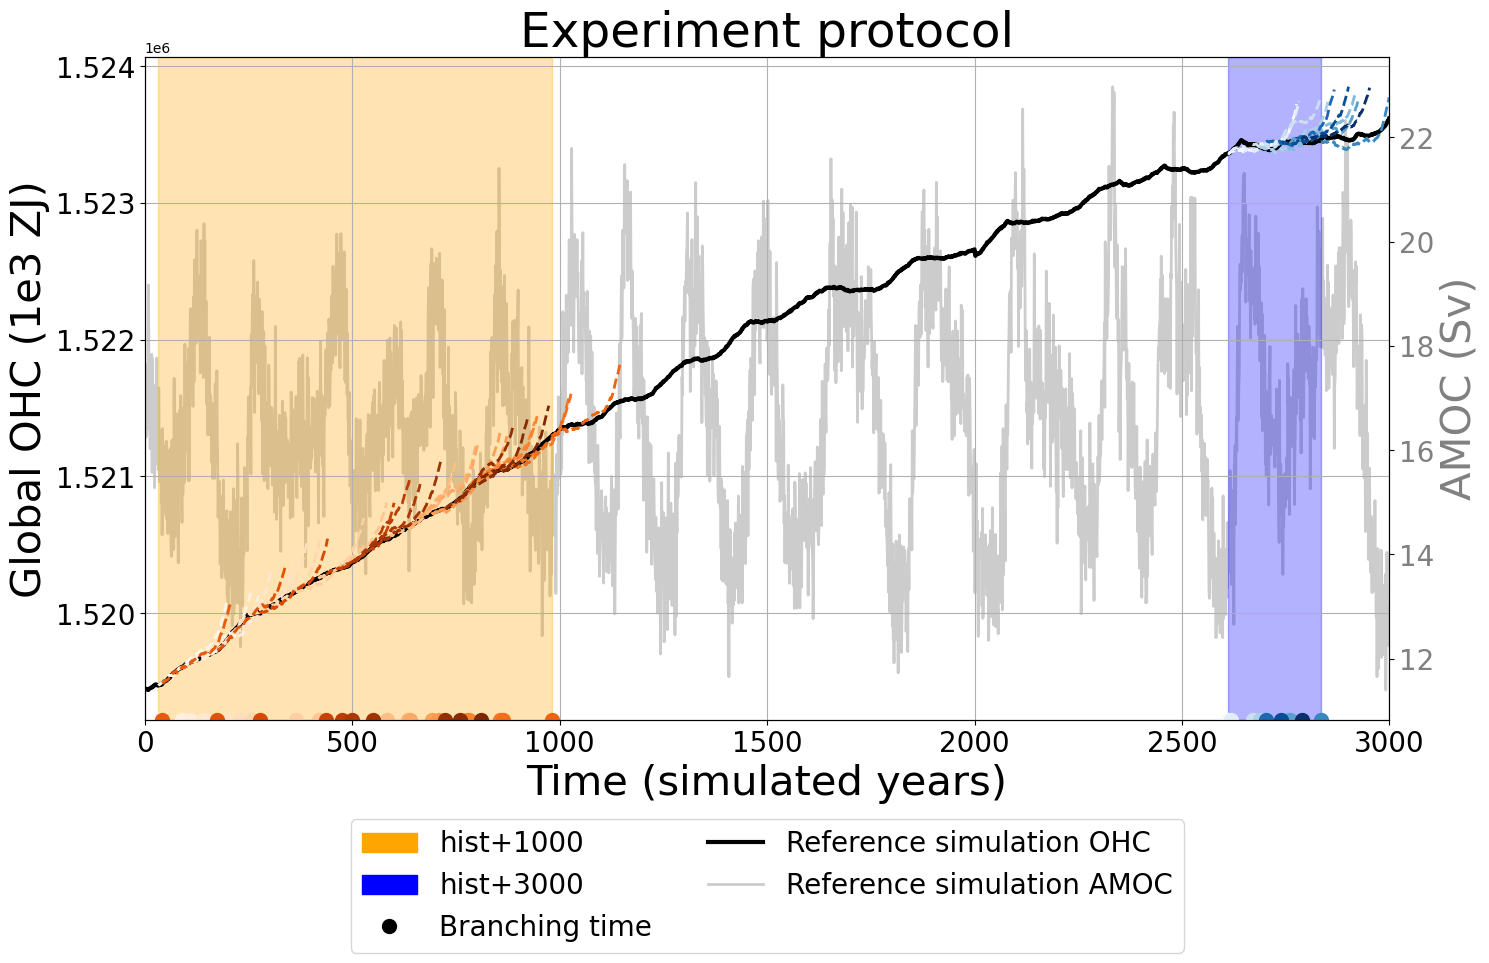
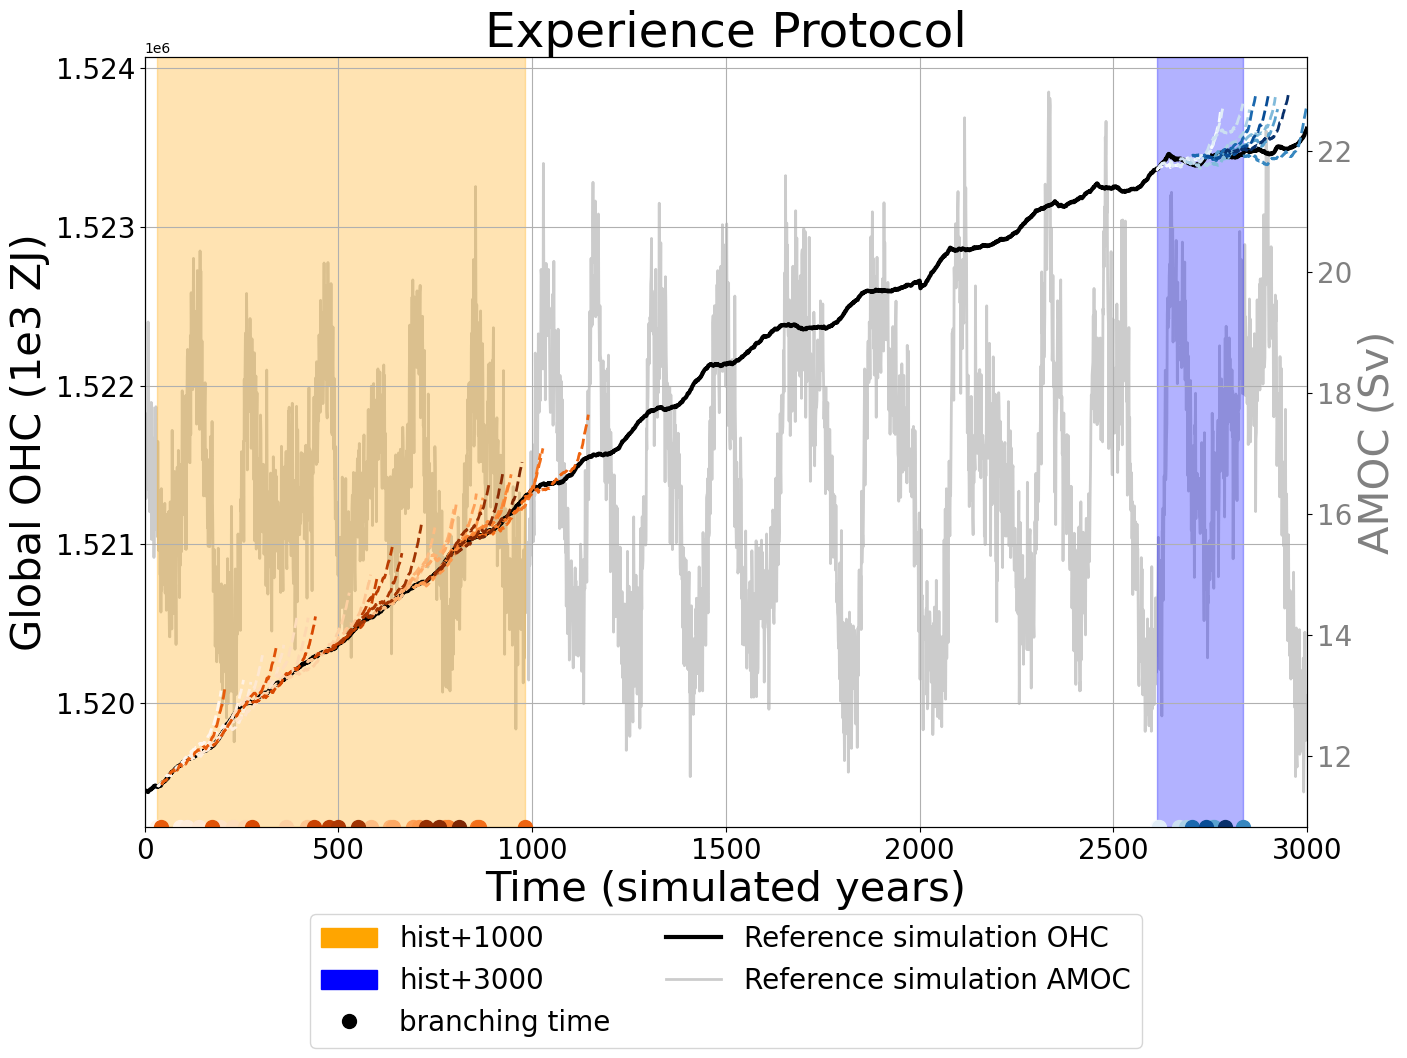
fin

diff --git a/scripts/figure_1.py b/scripts/figure_1.py
@@ -17,7 +17,7 @@ import matplotlib.pyplot as plt
 from matplotlib.cm import get_cmap
 from matplotlib.lines import Line2D
 from matplotlib.patches import Patch
-
+import xarray as xr
 
 # -----------------------------------------------------------------------------
 # Make the project root importable
@@ -30,16 +30,14 @@ sys.path.append(str(PROJECT_ROOT))
 # -----------------------------------------------------------------------------
 FIG_DIR = PROJECT_ROOT / "figures"
 FIG_DIR.mkdir(exist_ok=True)
-
+INTERMEDIATE_DIR = PROJECT_ROOT / "data/data_plot"
 # -----------------------------------------------------------------------------
 # Imports from project utilities
 # -----------------------------------------------------------------------------
 from functions.utils import (
-    load_pic_ohc_1D,
-    load_pic_amoc,
-    load_integrated_ohc,
     load_branching_years,
 )
+
 
 # -----------------------------------------------------------------------------
 # Physical constants
@@ -60,188 +58,88 @@ YINI_3000 = 4462 - 1850
 YEND_3000 = 4685 - 1850
 
 
-def main():
-    """Generate the experiment protocol figure."""
+amoc_pic_gb = xr.open_dataset(INTERMEDIATE_DIR / "amoc_pic_gb.nc").msftyz
+ohc_pic_gb = xr.open_dataset(INTERMEDIATE_DIR / "ohc_pic_gb.nc").thetao
 
-    # -------------------------------------------------------------------------
-    # Load data
-    # -------------------------------------------------------------------------
+ohc_hist_1000 = xr.open_dataset(INTERMEDIATE_DIR / "ohc_hist_1000.nc").__xarray_dataarray_variable__
+ohc_hist_3000 = xr.open_dataset(INTERMEDIATE_DIR / "ohc_hist_3000.nc").__xarray_dataarray_variable__
+ohc_pic_1000 = xr.open_dataset(INTERMEDIATE_DIR / "ohc_pic_1000.nc").__xarray_dataarray_variable__
+ohc_pic_3000 = xr.open_dataset(INTERMEDIATE_DIR / "ohc_pic_3000.nc").__xarray_dataarray_variable__
 
-    ohc_pic = load_pic_ohc_1D()/ECHELLE_OHC
-    
-    amoc_pic = load_pic_amoc()
 
-    ohc_hist_1000 = load_integrated_ohc("hist_tot", "0_btm")
+starty_tot, starty_3000 = load_branching_years()
+time = np.linspace(0,2999,3000)
+time_hist = np.linspace(0,164,165)
 
-    ohc_hist_3000 = load_integrated_ohc("hist_3000", "0_btm")
+# -----------------------------------------------------------------------------
+# PLOT
+# -----------------------------------------------------------------------------
+data = ohc_pic_gb
+data_tas = amoc_pic_gb
+cmap2 = get_cmap('Oranges')
+cmap1 = get_cmap('Blues')
+#tracer
+fig, ax1 = plt.subplots(figsize=(15, 10))
+ax1.plot(data.time, data, color="black", label="OHC", linewidth = 3)
+cpt = 0
 
-    starty_tot, starty_3000 = load_branching_years()
+for k in starty_tot:
+    ax1.plot(k - 1850, 0, marker = 'o', color = cmap2(cpt/28), markersize = 10, transform = ax1.get_xaxis_transform())
+    ohc_hist_1000[cpt]['time'] = time_hist
+    hist = ohc_hist_1000.isel(ensemble=cpt)
+    ax1.plot(time_hist + k - 1850, hist,'--', color = cmap2(cpt/28),linewidth = 2)
+    cpt +=1
+cpt = 0
+for k in  starty_3000:
+    ax1.plot(k - 1850, 0, marker = 'o', color = cmap1(cpt/9), markersize = 10, transform = ax1.get_xaxis_transform())
+    ohc_hist_3000[cpt]['time'] = time_hist
+    hist2 = ohc_hist_3000.isel(ensemble=cpt)
+    ax1.plot(time_hist + k - 1850, hist2,'--', color = cmap1(cpt/9),linewidth = 2)
+    cpt +=1
 
-    # -------------------------------------------------------------------------
-    # Figure setup
-    # -------------------------------------------------------------------------
-    cmap_1000 = get_cmap("Oranges")
-    cmap_3000 = get_cmap("Blues")
+ax1.axvspan(YINI_1000,YEND_1000, color = 'orange', alpha = 0.3, label = "after 1000 years Spin-up")
+ax1.axvspan(YINI_3000,YEND_3000, color = 'blue', alpha = 0.3, label = "after 3000 years Spin-up")
+ax1.set_ylabel("Global OHC (1e3 ZJ)", color="black", fontsize=30)
+ax1.set_xlabel("Time (simulated years)", fontsize=30)
+ax1.tick_params(axis='y', labelcolor="black", labelsize=20)
+ax1.tick_params(axis='x', labelcolor="black", labelsize=20)
+ax1.grid(True)
+ax1.set_xlim(0,3000)
 
-    fig, ax1 = plt.subplots(figsize=(15, 10))
+ax2 = ax1.twinx()
 
-    # -------------------------------------------------------------------------
-    # Reference OHC
-    # -------------------------------------------------------------------------
-    ax1.plot(
-        ohc_pic.time,
-        ohc_pic,
-        color="black",
-        linewidth=3,
-        label="Reference simulation OHC",
-    )
+ax2.plot(
+    data_tas.year,
+    data_tas,
+    color="grey",
+    linewidth=2,
+    alpha=0.4,
+    label="AMOC"
+)
 
-    # -------------------------------------------------------------------------
-    # Historical members branched after 1000 years spin-up
-    # -------------------------------------------------------------------------
-    n_tot = len(starty_tot)
+ax2.set_ylabel("AMOC (Sv)", fontsize=30, color="grey")
+ax2.tick_params(axis='y', labelcolor="grey", labelsize=20)
 
-    for i, year in enumerate(starty_tot):
-        color = cmap_1000(i / max(n_tot - 1, 1))
+ax2.set_zorder(0)    
+ax1.set_zorder(1)
+ax1.patch.set_visible(False)
 
-        ax1.plot(
-            year - 1850,
-            0,
-            marker="o",
-            color=color,
-            markersize=10,
-            transform=ax1.get_xaxis_transform(),
-        )
 
-        hist_member = ohc_hist_1000.isel(ensemble=i).assign_coords(time=TIME_HIST)
+# --- Légende personnalisée ---
+legend_elements = [
+    Patch(facecolor='orange', edgecolor='orange', label='hist+1000'), # rectangle rouge
+    Patch(facecolor='blue', edgecolor='blue', label='hist+3000'), # rectangle violet
+    Line2D([0], [0], marker='o', color='black', label='branching time',
+           markersize=10, linestyle='None'), # rond noir
+    Line2D([0], [0], color='black', lw=3, label='Reference simulation OHC') # trait noir
+]
+legend_elements.append(
+    Line2D([0], [0], color='grey', lw=2, alpha=0.4, label='Reference simulation AMOC')  # trait gris
+)
 
-        ax1.plot(
-            TIME_HIST + year - 1850,
-            hist_member,
-            "--",
-            color=color,
-            linewidth=2,
-        )
+ax1.legend(handles=legend_elements, loc='center', bbox_to_anchor=(0.5,-0.2),ncol = 2, fontsize=20)
+ax1.set_title('Experience Protocol', fontsize = 35)
 
-    # -------------------------------------------------------------------------
-    # Historical members branched after 3000 years spin-up
-    # -------------------------------------------------------------------------
-    n_3000 = len(starty_3000)
+plt.savefig(FIG_DIR / "figure_1.pdf", bbox_inches="tight")
+plt.savefig(FIG_DIR / "figure_1.png", bbox_inches="tight")
 
-    for i, year in enumerate(starty_3000):
-        color = cmap_3000(i / max(n_3000 - 1, 1))
-
-        ax1.plot(
-            year - 1850,
-            0,
-            marker="o",
-            color=color,
-            markersize=10,
-            transform=ax1.get_xaxis_transform(),
-        )
-
-        hist_member = ohc_hist_3000.isel(ensemble=i).assign_coords(time=TIME_HIST)
-
-        ax1.plot(
-            TIME_HIST + year - 1850,
-            hist_member,
-            "--",
-            color=color,
-            linewidth=2,
-        )
-
-    # -------------------------------------------------------------------------
-    # Shaded windows
-    # -------------------------------------------------------------------------
-    ax1.axvspan(
-        YINI_1000,
-        YEND_1000,
-        color="orange",
-        alpha=0.3,
-        label="after 1000 years spin-up",
-    )
-
-    ax1.axvspan(
-        YINI_3000,
-        YEND_3000,
-        color="blue",
-        alpha=0.3,
-        label="after 3000 years spin-up",
-    )
-
-    # -------------------------------------------------------------------------
-    # Main axis formatting
-    # -------------------------------------------------------------------------
-    ax1.set_xlabel("Time (simulated years)", fontsize=30)
-    ax1.set_ylabel("Global OHC (1e3 ZJ)", fontsize=30, color="black")
-    ax1.tick_params(axis="x", labelsize=20, labelcolor="black")
-    ax1.tick_params(axis="y", labelsize=20, labelcolor="black")
-    ax1.grid(True)
-    ax1.set_xlim(0, 3000)
-
-    # -------------------------------------------------------------------------
-    # Secondary axis: AMOC
-    # -------------------------------------------------------------------------
-    ax2 = ax1.twinx()
-    ax2.plot(
-        amoc_pic.year,
-        amoc_pic,
-        color="grey",
-        linewidth=2,
-        alpha=0.4,
-        label="Reference simulation AMOC",
-    )
-    ax2.set_ylabel("AMOC (Sv)", fontsize=30, color="grey")
-    ax2.tick_params(axis="y", labelsize=20, labelcolor="grey")
-
-    ax2.set_zorder(0)
-    ax1.set_zorder(1)
-    ax1.patch.set_visible(False)
-
-    # -------------------------------------------------------------------------
-    # Custom legend
-    # -------------------------------------------------------------------------
-    legend_elements = [
-        Patch(facecolor="orange", edgecolor="orange", label="hist+1000"),
-        Patch(facecolor="blue", edgecolor="blue", label="hist+3000"),
-        Line2D(
-            [0], [0],
-            marker="o",
-            color="black",
-            linestyle="None",
-            markersize=10,
-            label="Branching time",
-        ),
-        Line2D(
-            [0], [0],
-            color="black",
-            lw=3,
-            label="Reference simulation OHC",
-        ),
-        Line2D(
-            [0], [0],
-            color="grey",
-            lw=2,
-            alpha=0.4,
-            label="Reference simulation AMOC",
-        ),
-    ]
-
-    ax1.legend(
-        handles=legend_elements,
-        loc="center",
-        bbox_to_anchor=(0.5, -0.25),
-        ncol=2,
-        fontsize=20,
-    )
-
-    ax1.set_title("Experiment protocol", fontsize=35)
-
-    plt.tight_layout()
-
-    # Save figure
-    plt.savefig(FIG_DIR / "figure_1.pdf", bbox_inches="tight")
-    plt.savefig(FIG_DIR / "figure_1.png", bbox_inches="tight")
-
-if __name__ == "__main__":
-    main()